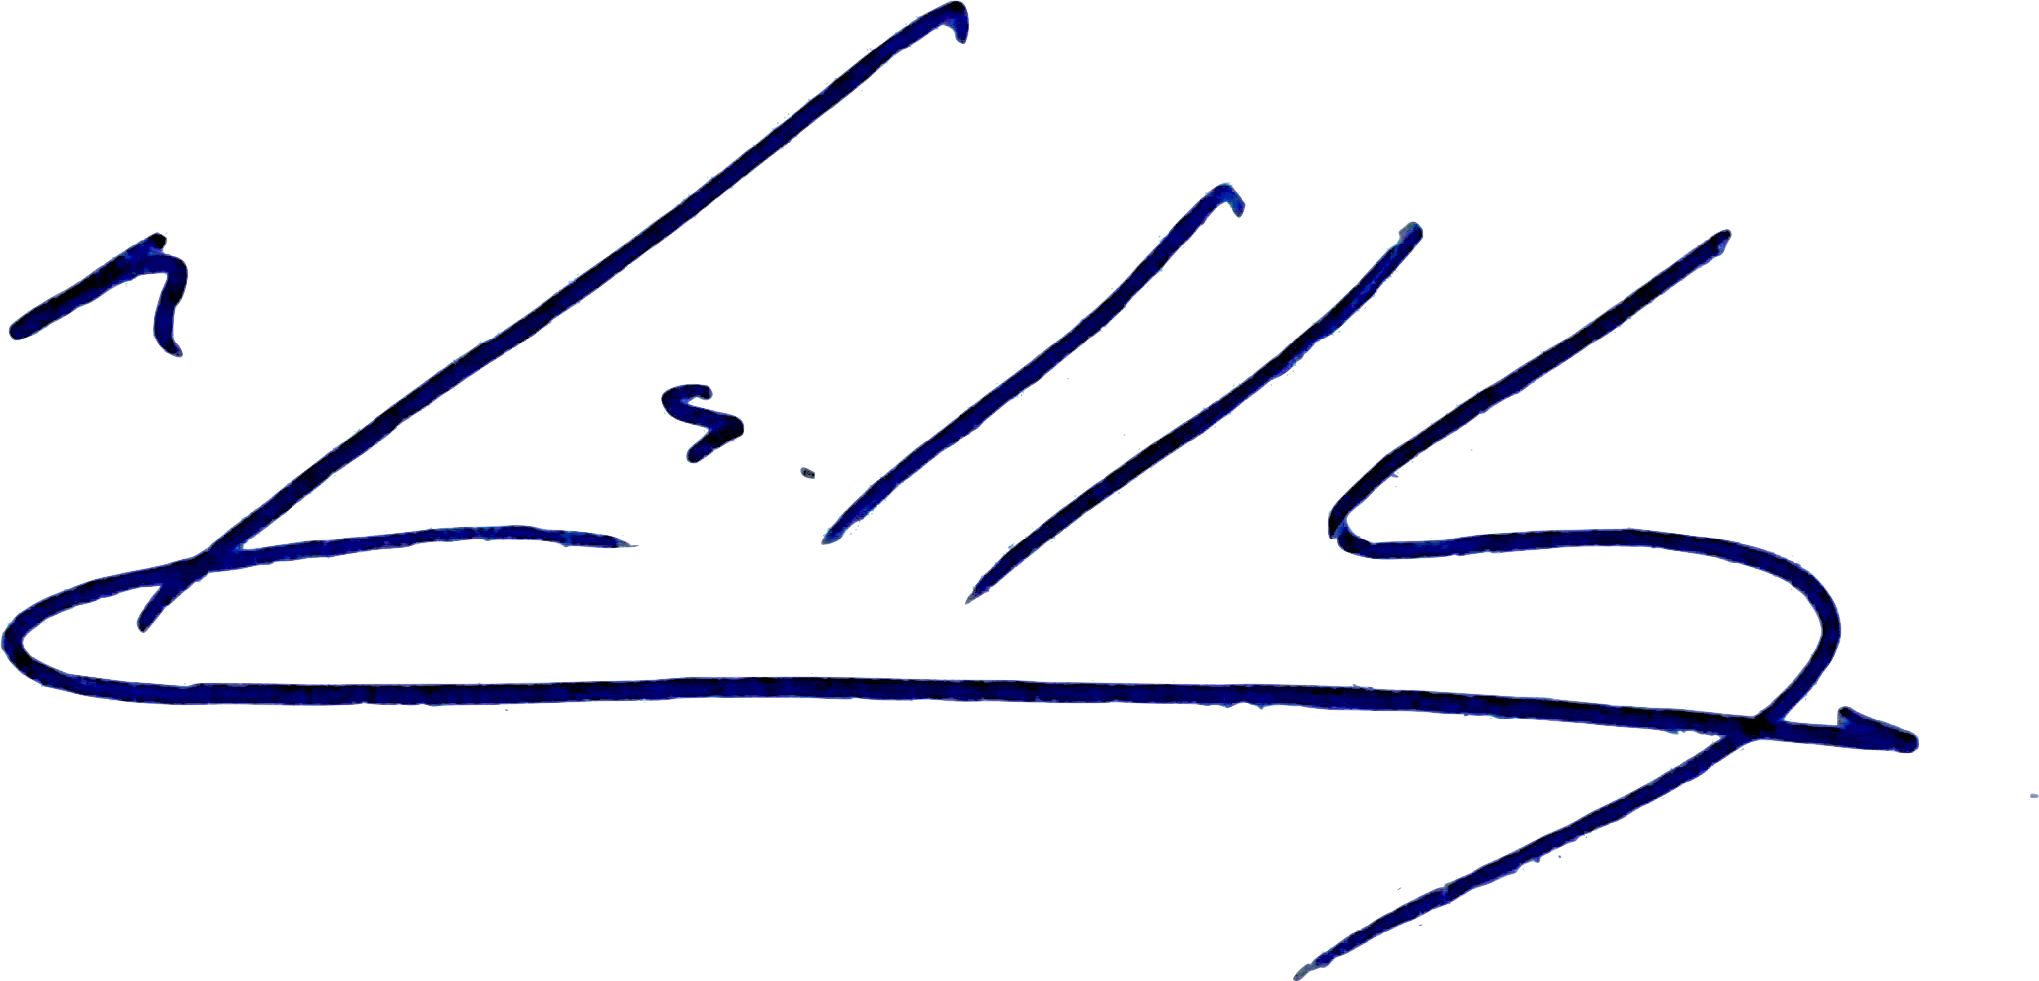
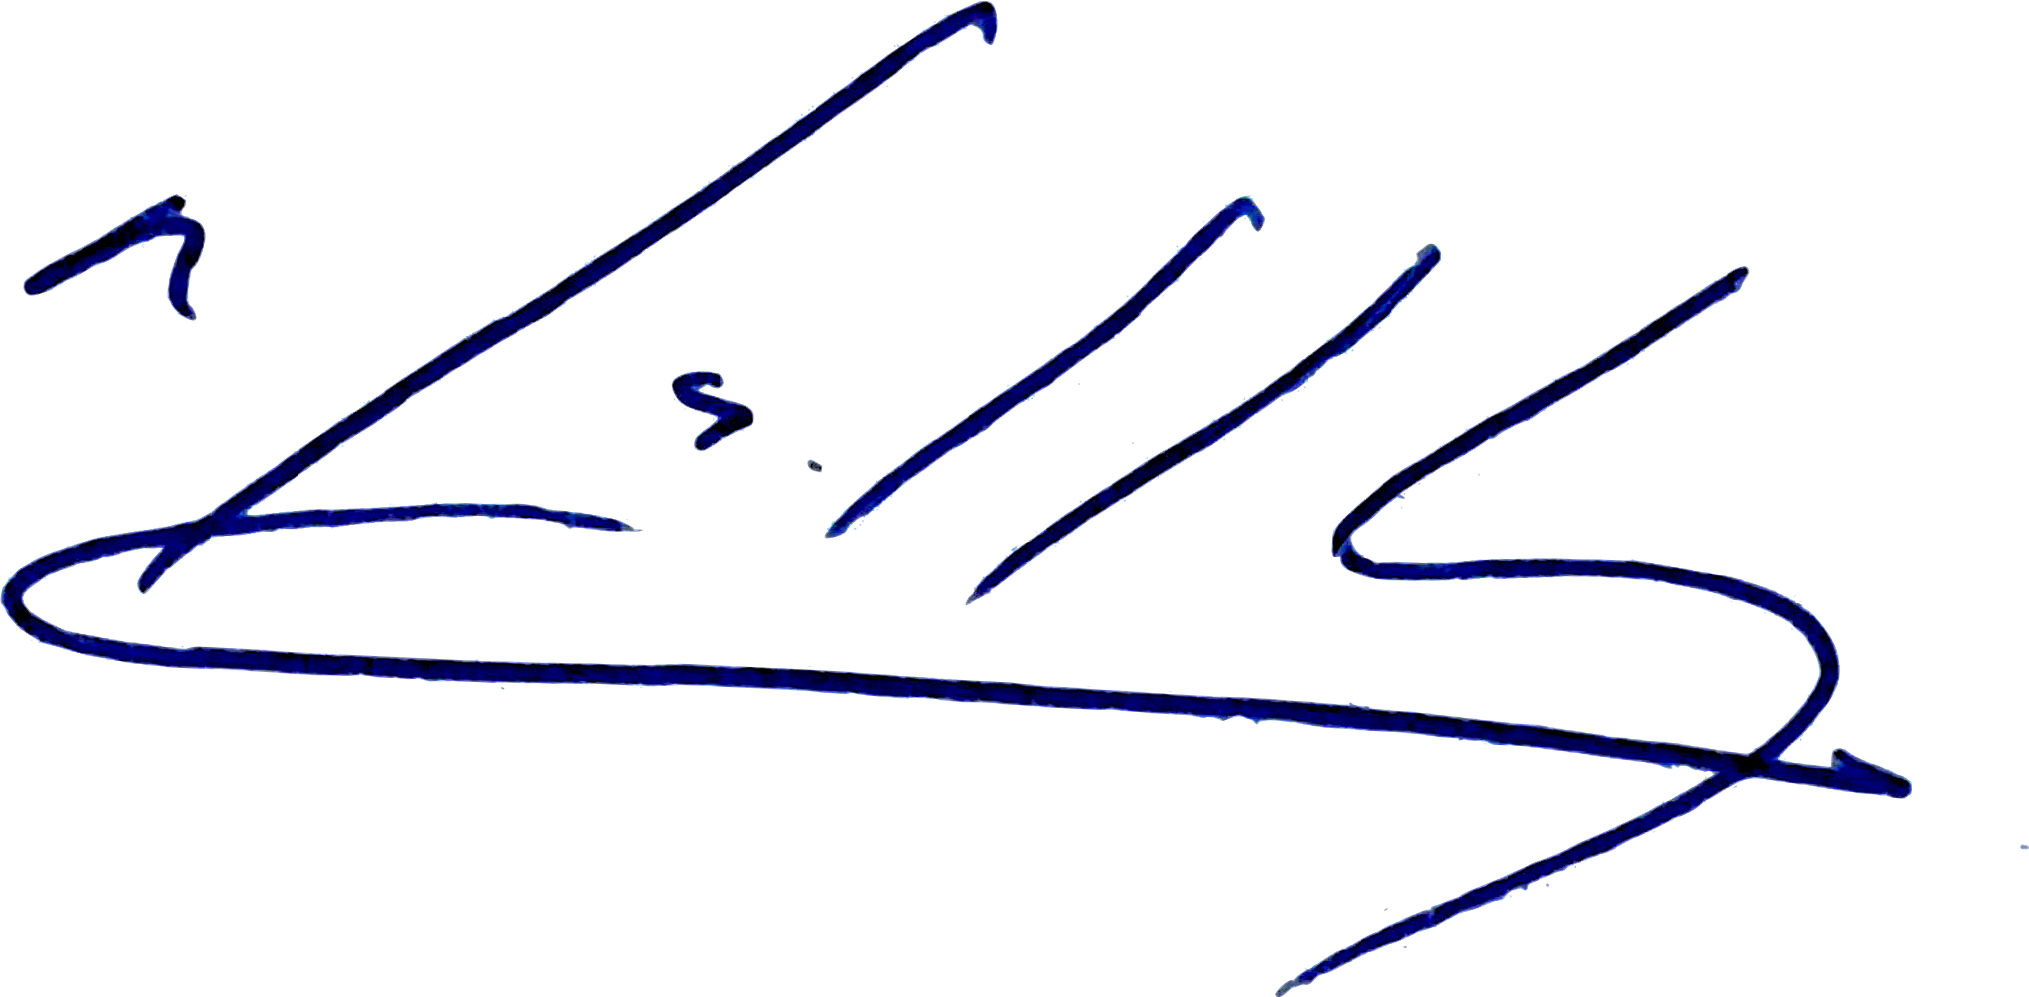
Endereza firma de Ma. Luisa de la Garza (2.74 grados) y la baja ligeramente respecto a la de Dario Tejeda

diff --git a/src/components/admin/CertificatesManager.jsx b/src/components/admin/CertificatesManager.jsx
@@ -125,8 +125,9 @@ const generatePreviewPDF = async (cert) => {
     const mlHeight = sigWidth * (mlImg.height / mlImg.width);
 
     const sigY = 160;
+    const mlOffsetY = 3; // baja un poco la firma de Ma. Luisa respecto a la de Darío, a petición suya
     doc.addImage(darioDataUrl, 'PNG', 90 - sigWidth / 2, sigY - darioHeight, sigWidth, darioHeight);
-    doc.addImage(mariaLuisaDataUrl, 'PNG', 207 - sigWidth / 2, sigY - mlHeight, sigWidth, mlHeight);
+    doc.addImage(mariaLuisaDataUrl, 'PNG', 207 - sigWidth / 2, sigY - mlHeight + mlOffsetY, sigWidth, mlHeight);
 
     doc.setDrawColor(150, 150, 150);
     doc.setLineWidth(0.3);
